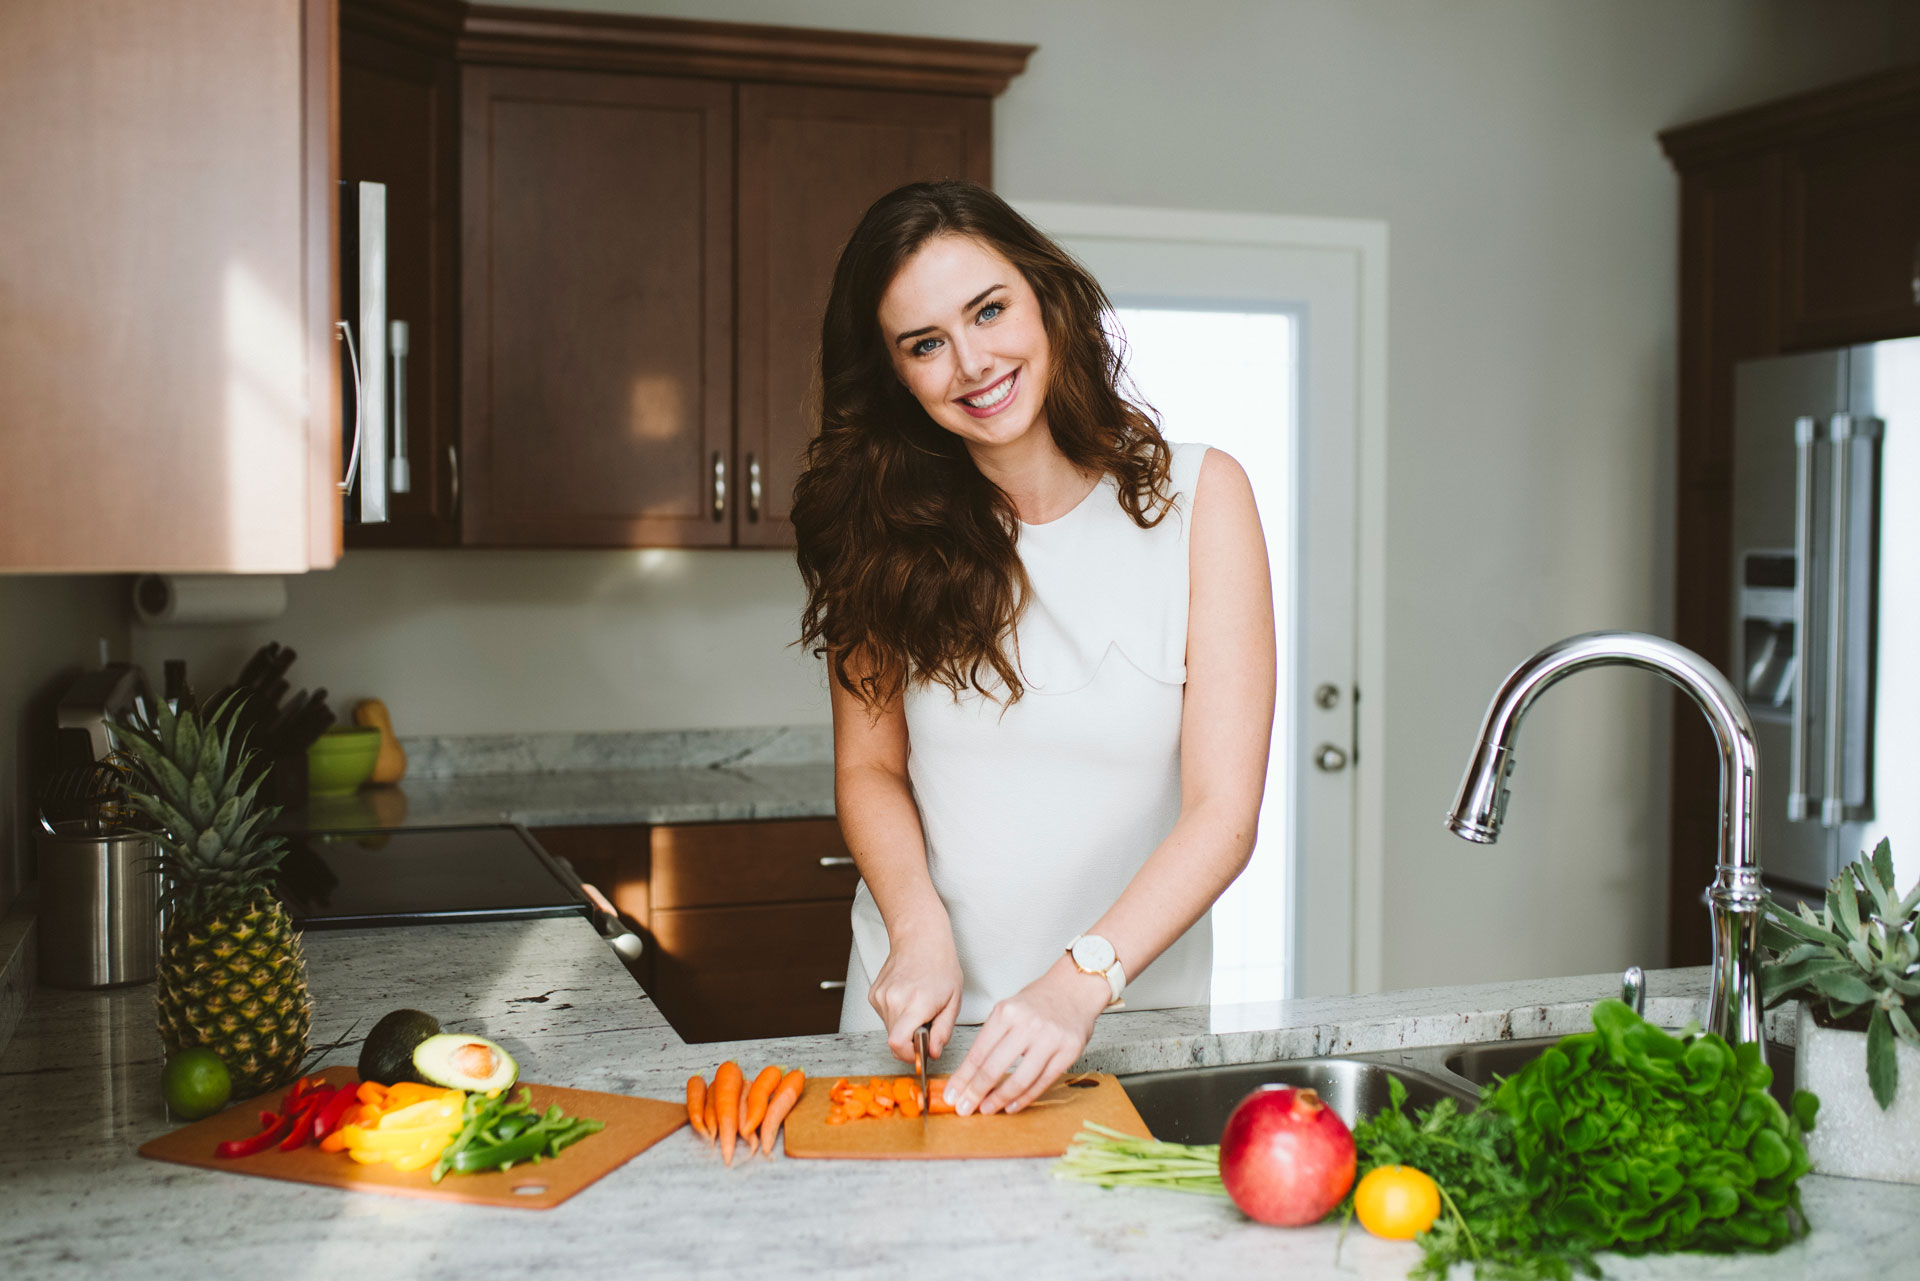
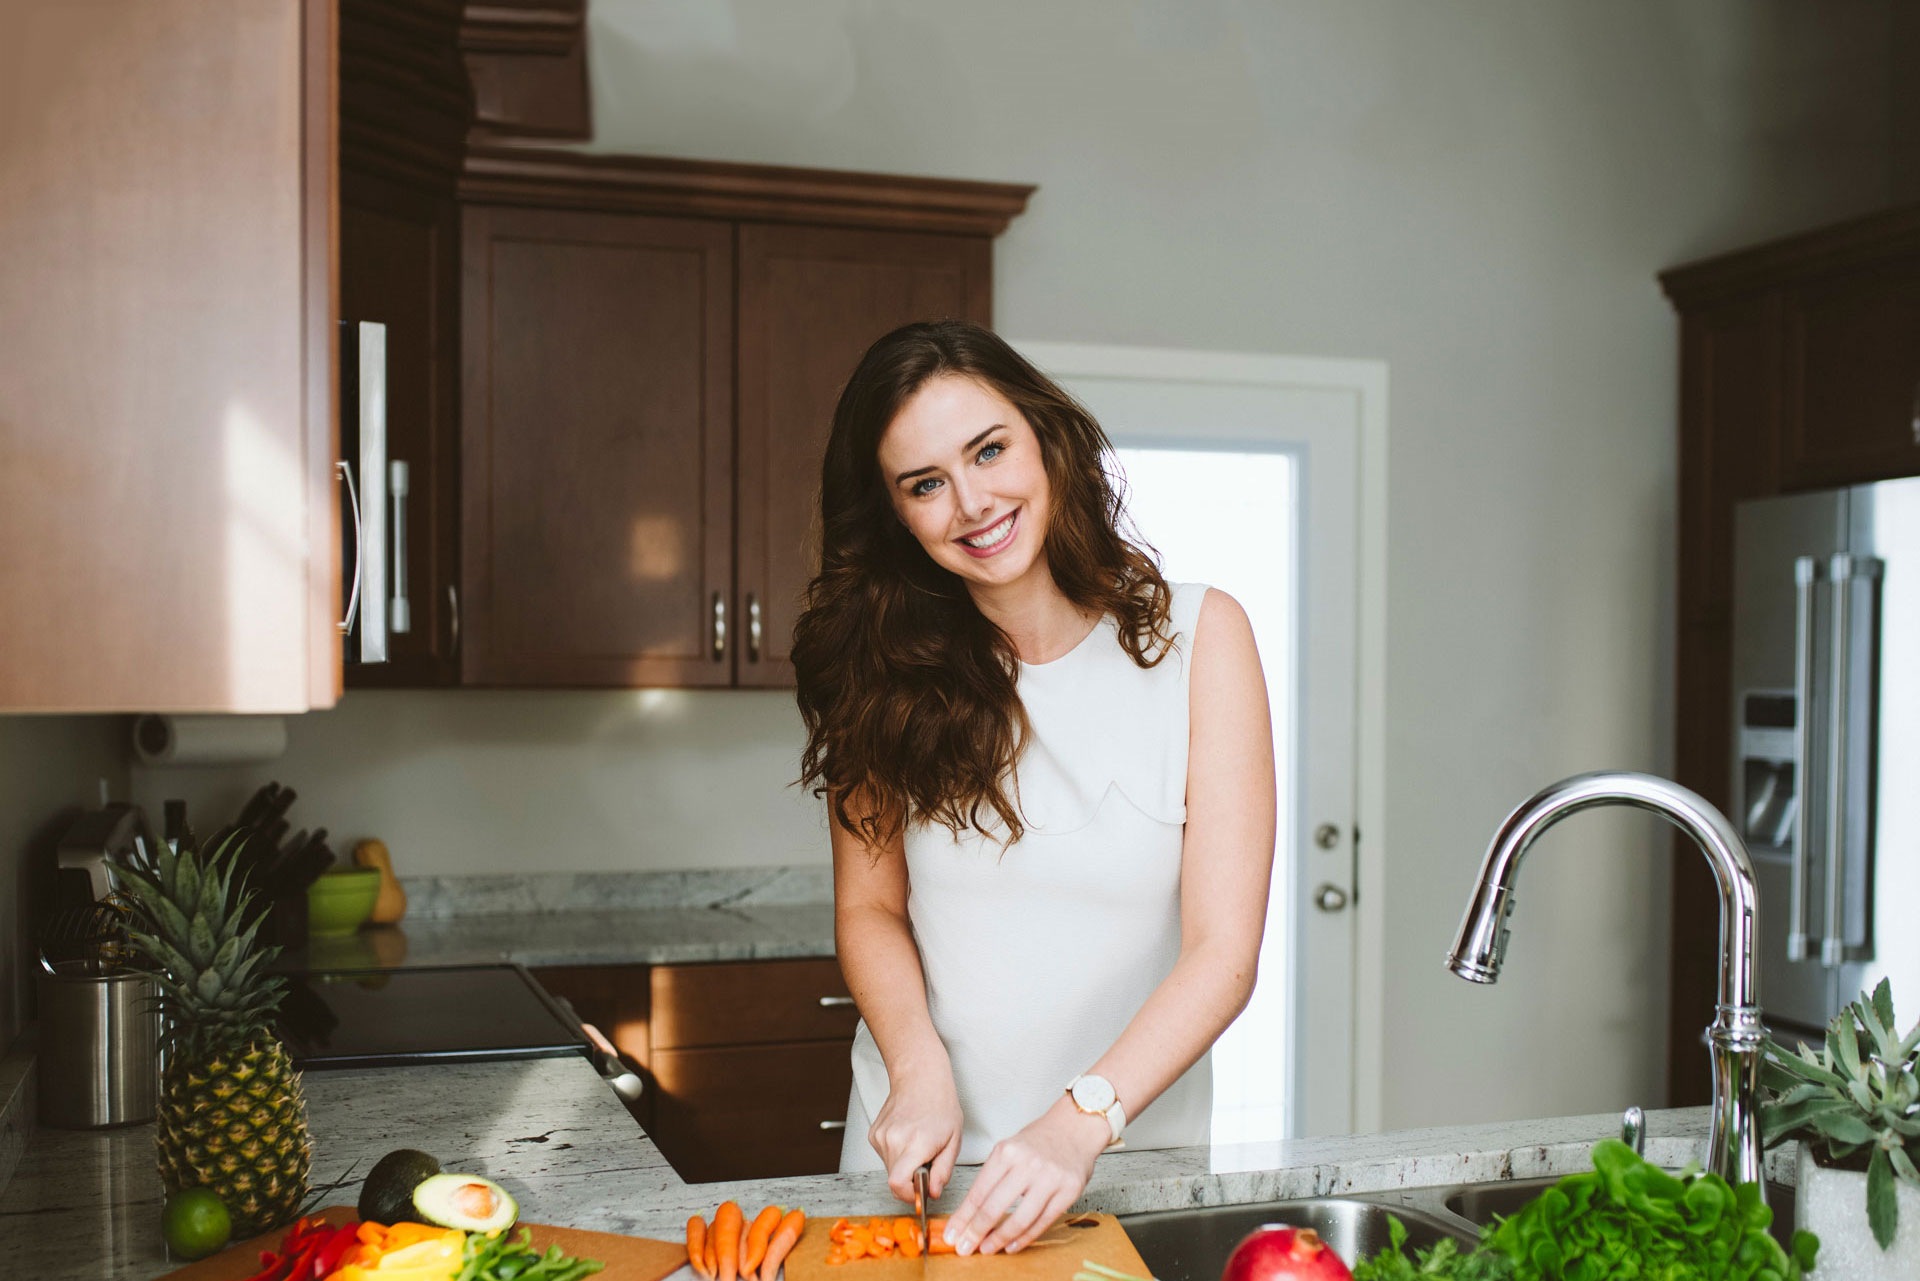
Updated copy & images

diff --git a/app/assets/stylesheets/styles.scss b/app/assets/stylesheets/styles.scss
@@ -172,22 +172,22 @@
   background-position: center;
   background-repeat: no-repeat;
   &--contact {
-    @include banner__image(30rem, "backgrounds/landscape/computer.jpg", 0.2) ;
+    @include banner__image(30rem, "backgrounds/landscape/computer.jpg", 0.2);
   }
   &--services {
     // TODO: with_patient
-    @include banner__image(30rem, "backgrounds/landscape/explaining.jpg", 0.3) ;
+    @include banner__image(30rem, "backgrounds/landscape/explaining.jpg", 0.3);
   }
   &--products {
     // TODO: clinic_table
-    @include banner__image(30rem, "backgrounds/landscape/herbs.jpg", 0.4) ;
+    @include banner__image(30rem, "backgrounds/landscape/herbs.jpg", 0.4);
   }
   &--article {
     // TODO: at_desk
-    @include banner__image(30rem, "backgrounds/landscape/holding.jpg", 0.2) ;
+    @include banner__image(30rem, "backgrounds/landscape/holding.jpg", 0.2);
   }
   &--faq-1 {
-    @include banner__image(30rem, "backgrounds/landscape/kitchen.jpg", 0.2) ;
+    @include banner__image(30rem, "backgrounds/landscape/kitchen_2.jpg", 0.2);
   }
   &--faq-2 {
     @include banner__image(26rem, "backgrounds/landscape/stretch.jpg", 0.2) ;
